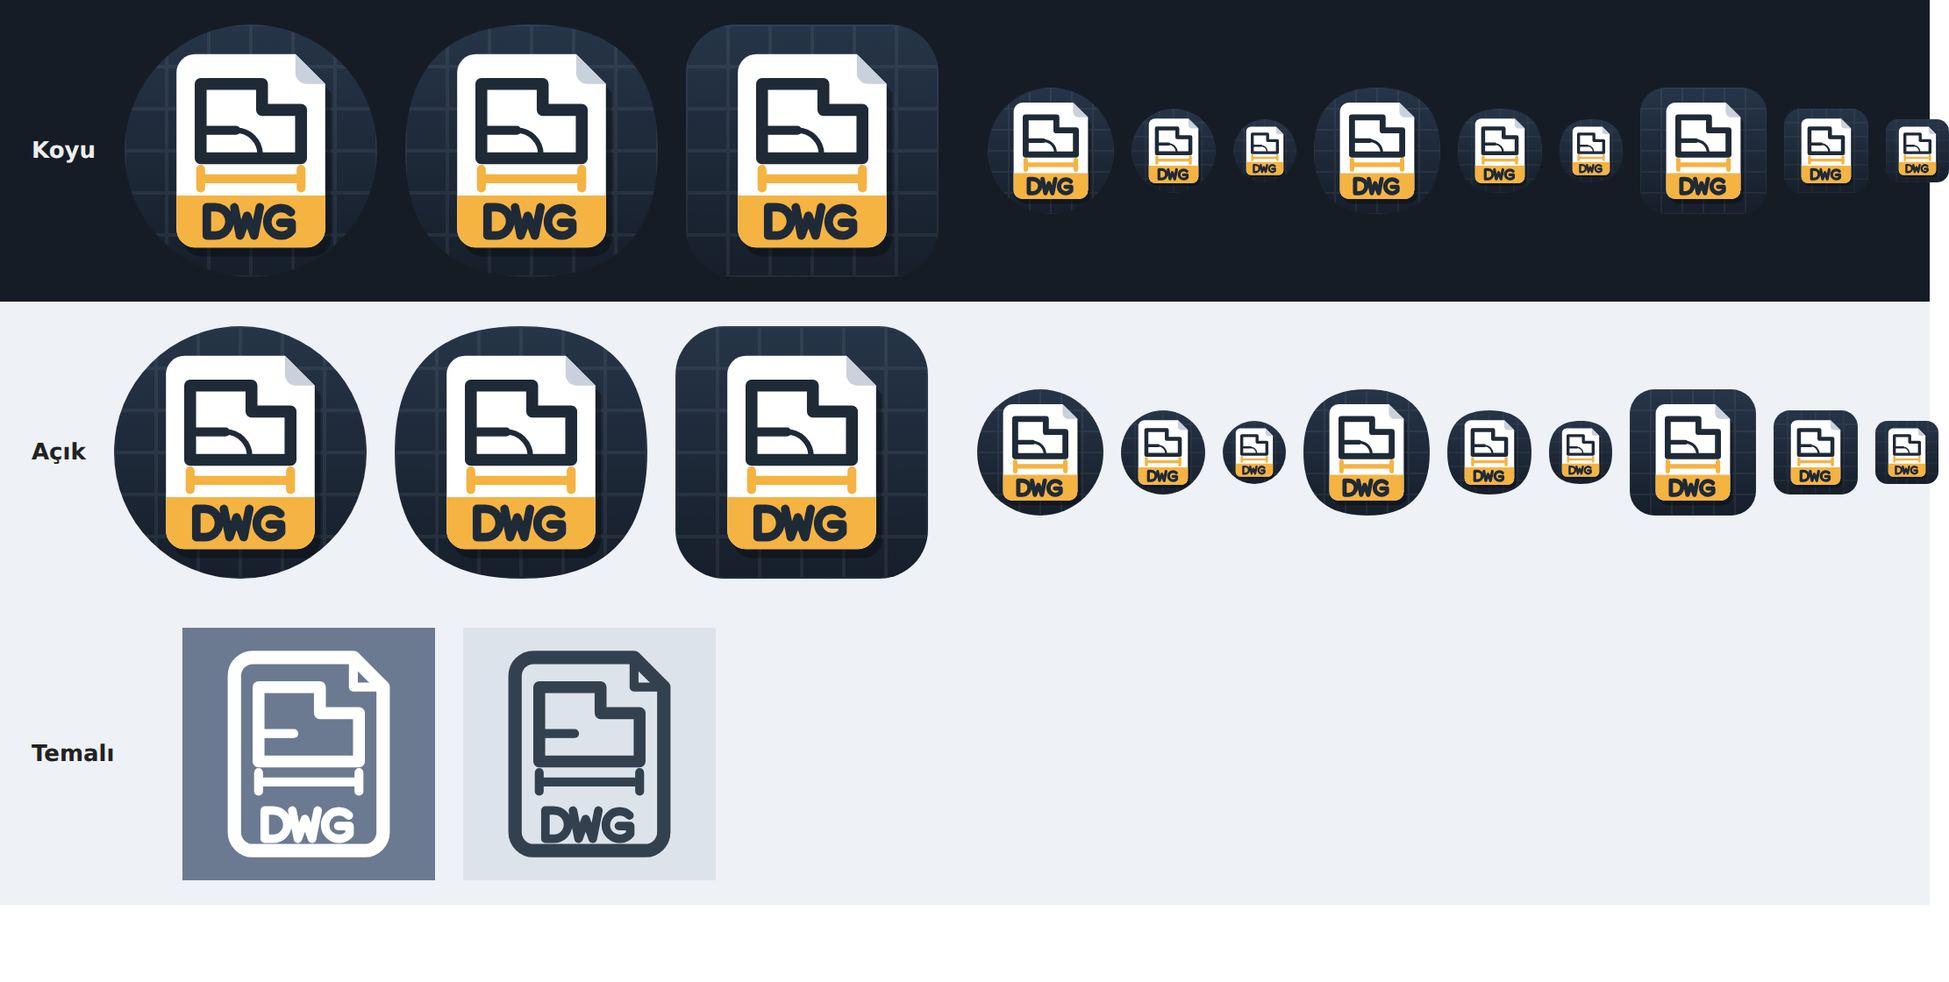
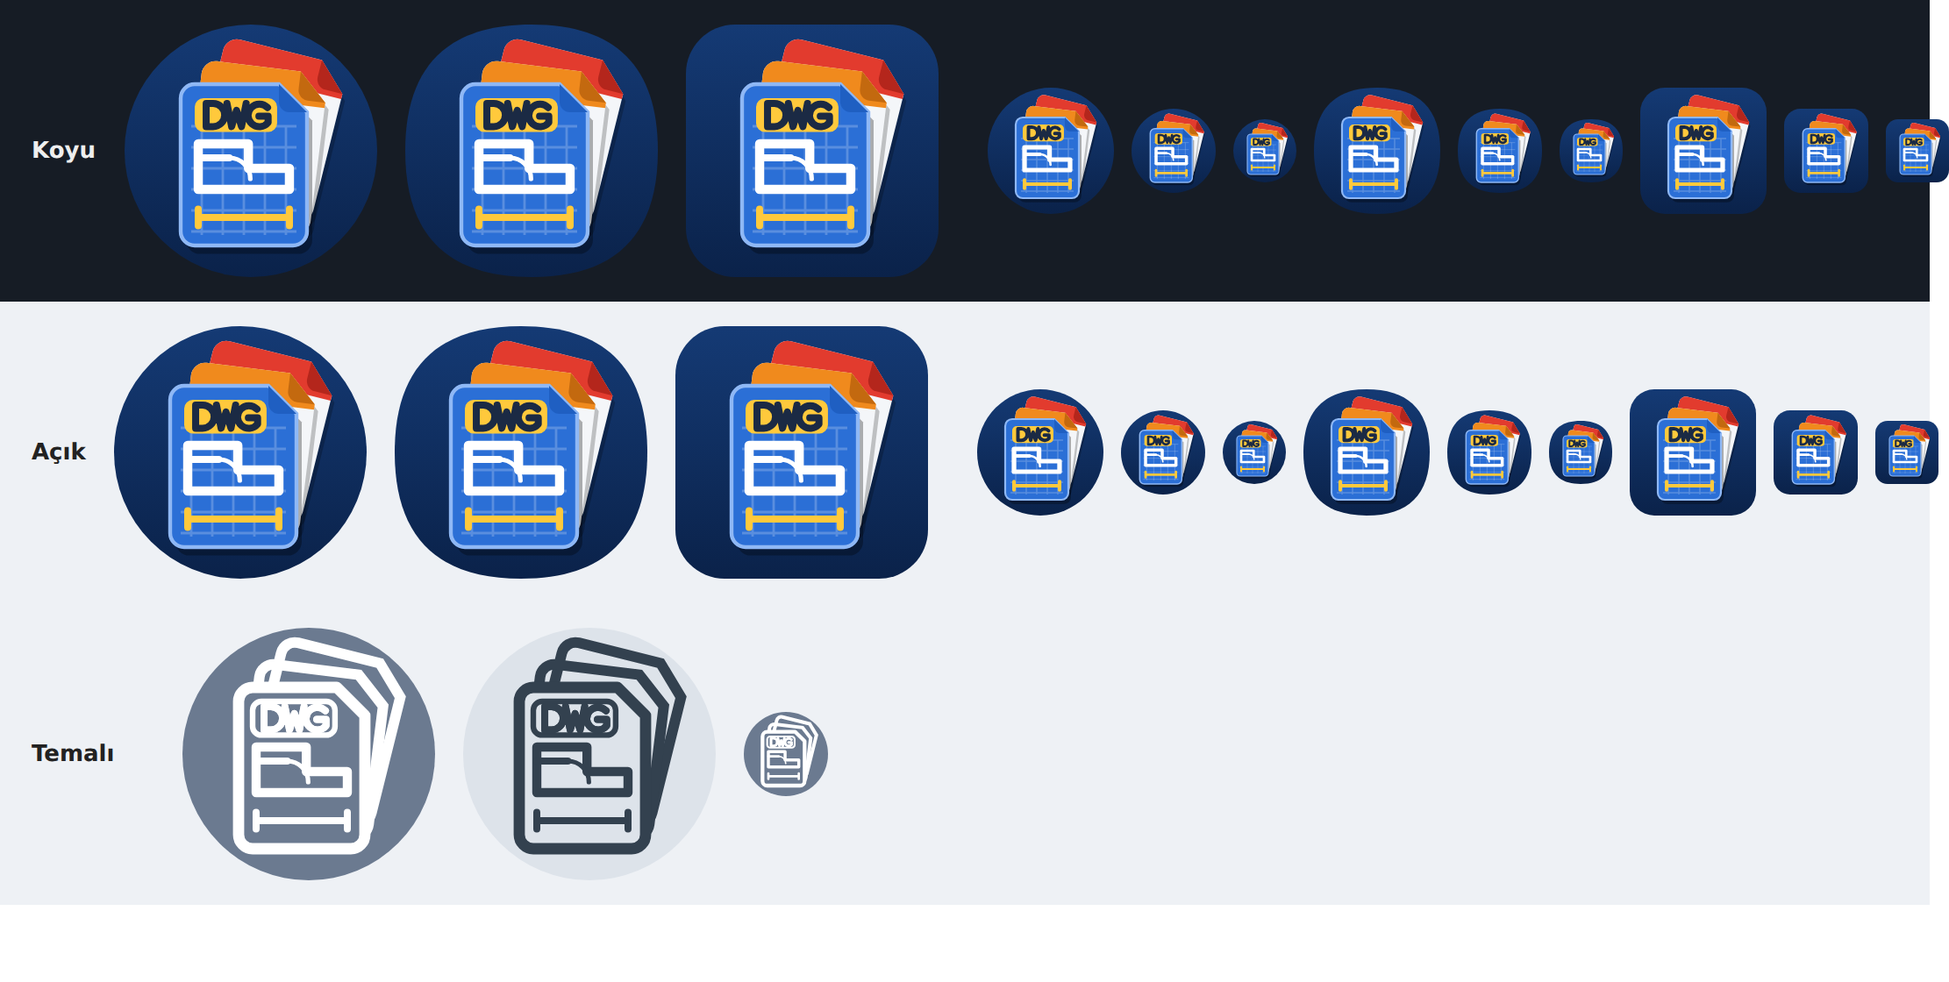
DWG Görüntüleyici v7.5: simge "yelpaze belge yığını" olarak yeniden tasarlandı (DWG paftası önde, PDF ve arşiv yaprakları arkada)
- ic_launcher_background.xml: koyu mavi dikey gradyan.
- ic_launcher_foreground.xml: önde mavi çizim paftası (ızgara, L duvarlı
  plan, iç duvar, kapı yayı, amber ölçü çizgisi, amber "DWG" etiketi);
  arkada merkez etrafında 7° ve 14° döndürülmüş, sağ üste kaydırılmış
  iki beyaz yaprak (kırmızı bant PDF, turuncu bant arşiv). Bütün
  köşeler 66 dp güvenli dairenin içinde (en uzak 32,7 dp).
- ic_launcher_monochrome.xml: temalı simge konturu; arka yaprak
  konturları clip-path deliğiyle yalnız ön paftanın dışında.
- release/icon_512.png ve icon_preview.png yenilendi; ana ekran marka
  işareti (<symbol id="i-appmark">) aynı tasarım.
- README, build.gradle, version.json: 7.5 / versionCode 28.

Claude-Session: https://claude.ai/code/session_01H5Q3W1HK45T3eykuqZLJpP

Changed region(s): [[0.0311, 0.3125, 1.0, 0.5938], [0.0621, 0.0, 1.0, 0.2812], [0.0932, 0.625, 0.4347, 0.9062]]

diff --git a/DwgViewer/app/src/main/assets/viewer/index.html b/DwgViewer/app/src/main/assets/viewer/index.html
@@ -115,7 +115,7 @@
     <symbol id="i-folder-add" viewBox="0 0 24 24"><path d="M2 4h7.5l2 2H22v4H2z"/><path fill-rule="evenodd" d="M2 11h20v9H2zm9 1.6v2.2H8.8v2h2.2V19h2v-2.2h2.2v-2H13v-2.2z"/></symbol>
     <symbol id="i-sdcard" viewBox="0 0 24 24"><path fill-rule="evenodd" d="M8.5 2H20v20H4V6.5zM7 4.5h1.6v4H7zm3.2 0h1.6v4h-1.6zm3.2 0H15v4h-1.6zm3.2 0h1.6v4h-1.6zM7 13v6h10v-6z"/></symbol>
     <symbol id="i-light" viewBox="0 0 24 24"><path fill-rule="evenodd" d="M12 2a7 7 0 0 0-4.5 12.4c.9.8 1.5 1.7 1.5 2.6h6c0-.9.6-1.8 1.5-2.6A7 7 0 0 0 12 2zm-1 4a4 4 0 0 0-3 3.3h1.8A2.3 2.3 0 0 1 11 7.8z"/><path d="M9 18.2h6v1.8H9zM10 21h4v1h-4z"/></symbol>
-    <symbol id="i-appmark" viewBox="18 18 72 72"><defs><linearGradient id="appmark-bg" x1="0" y1="0" x2="0" y2="1"><stop offset="0" stop-color="#2A3A4F"/><stop offset="1" stop-color="#121923"/></linearGradient><clipPath id="appmark-clip"><rect x="18" y="18" width="72" height="72" rx="16"/></clipPath></defs><g clip-path="url(#appmark-clip)"><rect width="108" height="108" fill="url(#appmark-bg)"/><path d="M18,0 V108 M0,18 H108 M30,0 V108 M0,30 H108 M42,0 V108 M0,42 H108 M54,0 V108 M0,54 H108 M66,0 V108 M0,66 H108 M78,0 V108 M0,78 H108 M90,0 V108 M0,90 H108" stroke="#FFFFFF" stroke-opacity=".06" stroke-width="1"/><g transform="translate(54,54) scale(1.06) translate(-54,-54)"><path d="M39,28 H66 L74,36 V75 a5,5 0 0 1 -5,5 H39 a5,5 0 0 1 -5,-5 V33 a5,5 0 0 1 5,-5 Z" fill="#000000" opacity="0.3" transform="translate(1.6,2.4)"/><path d="M39,28 H66 L74,36 V75 a5,5 0 0 1 -5,5 H39 a5,5 0 0 1 -5,-5 V33 a5,5 0 0 1 5,-5 Z" fill="#FFFFFF"/><path d="M66,28 V33 a3,3 0 0 0 3,3 H74 Z" fill="#C9D1DC"/><path d="M40.5,36 H57 V43 H67.5 V56 H40.5 Z" fill="none" stroke="#1F2A37" stroke-width="3.2" stroke-linejoin="round"/><path d="M40.5,48.5 H50" fill="none" stroke="#1F2A37" stroke-width="2.4" stroke-linecap="round"/><path d="M50,48.5 A6.5,6.5 0 0 1 56.5,55" fill="none" stroke="#1F2A37" stroke-width="1.5" stroke-linecap="round"/><path d="M40.5,61.5 H67.5 M40.5,59 V64 M67.5,59 V64" fill="none" stroke="#F5B342" stroke-width="2.4" stroke-linecap="round"/><path d="M34,66 H74 V75 a5,5 0 0 1 -5,5 H39 a5,5 0 0 1 -5,-5 Z" fill="#F5B342"/><path d="M42.16,69.2 L42.16,76.8 M42.16,69.2 L44.44,69.2 A3.8,3.8 0 0 1 44.44,76.8 L42.16,76.8 M49.57,69.2 L51.09,76.8 L52.99,71.48 L54.89,76.8 L56.41,69.2 M64.77,70.53 A3.7,3.7 0 1 0 64.96,75.47 L64.96,73.38 L61.92,73.38" fill="none" stroke="#1F2A37" stroke-width="2.3" stroke-linecap="round" stroke-linejoin="round"/></g></g></symbol>
+    <symbol id="i-appmark" viewBox="18 18 72 72"><defs><linearGradient id="appmark-bg" x1="0" y1="0" x2="0" y2="1"><stop offset="0" stop-color="#17407F"/><stop offset="1" stop-color="#081C3F"/></linearGradient><clipPath id="appmark-clip"><rect x="18" y="18" width="72" height="72" rx="16"/></clipPath></defs><g clip-path="url(#appmark-clip)"><rect width="108" height="108" fill="url(#appmark-bg)"/><g transform="translate(7,-10) rotate(14 52 58)"><path d="M38,35 H62 L70,43 V77 a4,4 0 0 1 -4,4 H38 a4,4 0 0 1 -4,-4 V39 a4,4 0 0 1 4,-4 Z" fill="#000000" opacity="0.22" transform="translate(1.2,1.8)"/><path d="M38,35 H62 L70,43 V77 a4,4 0 0 1 -4,4 H38 a4,4 0 0 1 -4,-4 V39 a4,4 0 0 1 4,-4 Z" fill="#F4F6F9"/><path d="M34,44.5 V39 a4,4 0 0 1 4,-4 H62 L70,43 V44.5 Z" fill="#E23B2E"/><path d="M62,35 V40 a3,3 0 0 0 3,3 H70 Z" fill="#B4261C"/></g><g transform="translate(3.5,-5) rotate(7 52 58)"><path d="M38,35 H62 L70,43 V77 a4,4 0 0 1 -4,4 H38 a4,4 0 0 1 -4,-4 V39 a4,4 0 0 1 4,-4 Z" fill="#000000" opacity="0.22" transform="translate(1.2,1.8)"/><path d="M38,35 H62 L70,43 V77 a4,4 0 0 1 -4,4 H38 a4,4 0 0 1 -4,-4 V39 a4,4 0 0 1 4,-4 Z" fill="#F4F6F9"/><path d="M34,44.5 V39 a4,4 0 0 1 4,-4 H62 L70,43 V44.5 Z" fill="#F08A1D"/><path d="M62,35 V40 a3,3 0 0 0 3,3 H70 Z" fill="#C3690F"/></g><g transform="translate(0,0) rotate(0 52 58)"><path d="M38,35 H62 L70,43 V77 a4,4 0 0 1 -4,4 H38 a4,4 0 0 1 -4,-4 V39 a4,4 0 0 1 4,-4 Z" fill="#000000" opacity="0.3" transform="translate(1.5,2.4)"/><path d="M38,35 H62 L70,43 V77 a4,4 0 0 1 -4,4 H38 a4,4 0 0 1 -4,-4 V39 a4,4 0 0 1 4,-4 Z" fill="#2B6FD6" stroke="#8FB8F5" stroke-width="1.1"/><path d="M40,47 V78 M46,47 V78 M52,47 V78 M58,47 V78 M64,47 V78 M37,47 H67 M37,53 H67 M37,59 H67 M37,65 H67 M37,71 H67 M37,77 H67" fill="none" stroke="#FFFFFF" stroke-width="0.7" opacity="0.22"/><path d="M62,35 V40 a3,3 0 0 0 3,3 H70 Z" fill="#1F5FC2"/><path d="M39,52 H53.3 V59 H65 V65 H39 Z" fill="none" stroke="#FFFFFF" stroke-width="2.6" stroke-linejoin="round"/><path d="M39,56 H47.84" fill="none" stroke="#FFFFFF" stroke-width="2" stroke-linecap="round"/><path d="M47.84,56 A6,6 0 0 1 53.84,62" fill="none" stroke="#FFFFFF" stroke-width="1.3" stroke-linecap="round"/><path d="M39,73 H65 M39,70.6 V75.4 M65,70.6 V75.4" fill="none" stroke="#FFC93C" stroke-width="2" stroke-linecap="round"/><path d="M40.5,39 H58.98 a2.5,2.5 0 0 1 2.5,2.5 V46.1 a2.5,2.5 0 0 1 -2.5,2.5 H40.5 a2.5,2.5 0 0 1 -2.5,-2.5 V41.5 a2.5,2.5 0 0 1 2.5,-2.5 Z" fill="#FFC93C"/><path d="M41.26,40.5 L41.26,47.1 M41.26,40.5 L43.24,40.5 A3.3,3.3 0 0 1 43.24,47.1 L41.26,47.1 M47.2,40.5 L48.52,47.1 L49.92,42.48 L51.33,47.1 L52.65,40.5 M58.75,41.66 A3.22,3.22 0 1 0 58.92,45.95 L58.92,44.13 L56.28,44.13" fill="none" stroke="#1B2A44" stroke-width="2" stroke-linecap="round" stroke-linejoin="round"/></g></g></symbol>
   </defs>
 </svg>
 <div id="app">

diff --git a/DwgViewer/README.md b/DwgViewer/README.md
@@ -1,4 +1,4 @@
-# DWG Görüntüleyici (Android) — v7.4
+# DWG Görüntüleyici (Android) — v7.5
 
 AutoCAD **DWG** ve **DXF** çizimlerini telefonda açan, çevrimdışı çalışan
 Android uygulaması. Dosya cihazdan dışarı çıkmaz; çözümleme telefonun
@@ -32,7 +32,7 @@ verisi gönderilmez).
 
 | Alan | Özellik |
 |---|---|
-| **Yeni uygulama simgesi (v7.4)** | Uyarlanabilir simge baştan tasarlandı: lacivert dikey gradyan ve ince plan ızgarası üzerinde katlı köşeli beyaz çizim yaprağı; yaprakta L duvarlı plan, iç duvar ve kapı yayı, amber ölçü çizgisi ve amber **"DWG" alt bandı** (harfler yazı tipi gerektirmeyen çizgi tabanlı geometrik yol). İçerik 66 dp güvenli dairenin içinde kalır; yuvarlak, kare-yuvarlak ve yuvarlatılmış kare maskelerde kırpılmaz, 36 px'te de okunur. Katmanlar `drawable/ic_launcher_background.xml` (gradyan `aapt:attr`), `ic_launcher_foreground.xml`, `ic_launcher_monochrome.xml` (Android 13+ temalı simge, kontur). Ana ekrandaki marka rozeti de aynı işareti kullanır (`<symbol id="i-appmark">`). Play Store için `release/icon_512.png` (tam kare, saydamlık yok) ve maske önizlemesi `release/icon_preview.png`; üretici betik tek kaynaktan hem SVG hem VectorDrawable yazar |
+| **Yeni uygulama simgesi (v7.4 – v7.5)** | Uyarlanabilir simge "yelpaze belge yığını" olarak tasarlandı: koyu mavi gradyan üzerinde önde **mavi çizim paftası** (ince ızgara, L duvarlı plan, iç duvar, kapı yayı, amber ölçü çizgisi, amber **"DWG" etiketi**), arkada merkez etrafında 7° ve 14° döndürülüp sağ üste kaydırılmış iki beyaz yaprak — üst bantları **kırmızı (PDF)** ve **turuncu (arşiv)**: uygulamanın DWG dışında PDF, Word, Excel ve arşiv de açtığını anlatır. Bütün köşeler 66 dp güvenli dairenin içindedir (en uzak köşe 32,7 dp); yuvarlak, kare-yuvarlak ve yuvarlatılmış kare maskelerde kırpılmaz, 36 px'te okunur. Harfler yazı tipi gerektirmeyen çizgi tabanlı geometrik yollardır (D, W, G). Katmanlar `drawable/ic_launcher_background.xml` (gradyan, `aapt:attr`), `ic_launcher_foreground.xml` (döndürülmüş gruplar), `ic_launcher_monochrome.xml` (Android 13+ temalı simge; arka yaprakların konturu ön paftanın dışında kalacak şekilde `clip-path` deliğiyle çizilir). Ana ekrandaki marka rozeti aynı işareti kullanır (`<symbol id="i-appmark">`). Play Store için `release/icon_512.png` (tam kare, saydamlık yok), maske ve boyut önizlemesi `release/icon_preview.png`; üretici betik tek kaynaktan hem SVG hem VectorDrawable yazar |
 | **Siluet kabuğu: cihazdan bağımsız derinlik sırası (v7.3)** | Kavramsal stildeki siluet, yüzeylerin kameradan uzağa şişirilmiş koyu bir kabuğuyla çizilir. 6.1'deki düzeltme kabuğu yalnız `polygonOffset` ile yüzlerin arkasına itiyordu; bazı mobil GPU sürücülerinde (özellikle 16 bit derinlik tamponu ve paralel izdüşümün geniş derinlik aralığında) bu ofset yetersiz kalıp dik yüzler siyaha boyanıyordu. Kabuk artık gölgelendiricide **bakış doğrultusu boyunca** siluet kalınlığının 6 katı geriye alınır (paralelde ekran konumu değişmez, perspektifte kayma piksel altıdır); `polygonOffset` yalnız ek güvence olarak kalır. Paralel izdüşümün derinlik aralığı 20 × uzaklıktan **uzaklık + 2,5 yarıçap**a çekildi (5-6 kat daha ince derinlik basamağı). Sınama 5b sürücü ofsetini etkisiz kılarak (`gl.polygonOffset` boş işlev) paralel ve perspektifte dik yüzlerin Gooch tonunda kaldığını ve siluetin küp dışında göründüğünü doğrular  **Belge görünümü:** yakınlaştırılmış PDF'te yatay kaydırma (`touch-action: pan-y` kaldırıldı) ve belge kipinde `#viewport`'un dokunma kilidi açıldı; **Word sayfa görünümü** (yazdırma önizleme): belgedeki sayfa boyutu ve kenar boşluklarıyla beyaz sayfalar, blok düzeyinde sayfalama, sayfa numarası, zorunlu sayfa sonu, genişliğe sığdırma, iki parmakla yakınlaştırma; "Akış" kipi eski düzendir |
 | **Ana ekran, belge kipi ve WebDAV (v7.2)** | **Belge kipi** (`body.docmode`; PDF / Word / Excel / ZIP-RAR / resim / metin açıkken): çizime ait hiçbir arayüz görünmez — şerit (`#toolbar`), durum çubuğu, sayfa düzeni sekmeleri, yan yuva ve üst çubuktaki Ara / Sığdır / Katmanlar / Ölçü / Ekran düğmeleri gizlenir (`app.css`), yalnız **Aç** ve **Diğer** kalır; Diğer menüsünde yalnız genel eylemler (Google Drive, Sunucudan indir, QR okut, Ayarlar, Hakkında, Pro, Ana ekran) görünür, çizim eylemleri gizlidir. Menü görünürlüğü tek yerde birleşir (`app.js refreshMenu`: yetki + belge kipi + belge varlığı; `edition.js applyEdition` de oraya gelir). Belge kipine girerken ölçü / profil kipi, notlar çubuğu, komut çubuğu, pencere yakınlaştırma ve bütün paneller kapanır; belge kapanınca çizim varsa şerit ve durum çubuğu geri gelir, çizim yoksa ana ekran açılır. Belge görünümünün kendi üst şeridi (geri · ad · eylemler · kapat) ve araç satırı durur. **Ana ekran** (`home.js`, `#home` + `#homeNav`; `#empty` karşılama kartının yerini alır): çizim ya da belge açık DEĞİLKEN `#main`'i kaplar, üst çubuk / şerit / durum çubuğu gizlenir (`body.homemode`), başlık ekranın içindedir; alt gezinme çubuğu dört bölüm: **Ev** (uygulama adı, "Dosya aç" → Dosya Aç merkezi, Son dosyalar ızgarası — küçük resimli, en çok 8, "Tümü…" → merkezin Son sekmesi —, hızlı işlemler QR · Sunucu · Google Drive, ücretsizde Pro tanıtım satırı; `#btnOpen2` / `#fileInput` / `#recentList` / `#recentWrap` / `#proLine` / `#btnServer` / `#btnQr` / `#btnDrive` kimlikleri korunur), **Dosya** (Yerel | Bulut sekmeleri — Yerel: `open.js`'in Cihaz gezgini `Open.mount(hostEl, 'device')` ile buraya gömülür: kök ekleme, kırıntı, liste, arama aynı; sistem seçici ve Çevrimdışı kopyalar düğmeleri; `#openPanel` alt sayfası çizim açıkken kullanılmaya devam eder, `Open.unmount()` ana ekran gizlenince — Bulut: hizmet kartları simge + ad + sağda durum düğmesi: Google Drive "Oturum aç" → `Drive.signIn`, oturum açıksa e-posta + Aç + Çıkış; WebDAV / Nextcloud "Oturum aç" → hesap formu, kayıtlı hesaplar Aç + Çıkış; Sunucu dizini → paftalar.json kutusu), **Bulut** (oturum açılmış hizmetlerin gezgini: Google Drive çipi Drive panelini açar, WebDAV hesapları için kırıntılı gezgin — klasörler, dosyalar, tür simgeleri, dosyaya dokununca indir → `Docs.openRegistered`; hiç hesap yoksa açıklama + Dosya › Bulut bağlantısı), **Araçlar** (4 sütun ızgara, renkli yuvarlatılmış simge kutuları `.tool-c1…c8` + ad; tanımlar tek listede `home.js TOOLS {id, icon, i18n, pro, needsDoc, run}`: PDF çıktısı, PNG kaydet, DXF kaydet, Değişiklikleri kaydet, Karşılaştır, Profil, Notlar, Ölçü, Katmanlar, Arama, GPS, Harita altlığı, Görünümler, QR okut, Sunucudan indir, Google Drive, Ayarlar, Hakkında, Pro; ücretsizde Pro araçlar turuncu **PRO** rozeti taşır ve Pro panelini açar, çizim gerektiren araçlar belge yokken "Önce bir DWG dosyası açın" der, çizim bellekteyken ana ekranı kapatıp aracı çizimde çalıştırır). Seçili bölüm `store('home:tab')` ile hatırlanır; Diğer › **Ana ekran** (`data-act="home"`) açık belgeyi kapatıp ana ekrana döner, çizim bellekte kalır (Son'dan yeniden yüklenir); geri tuşu ana ekranda Ev değilse Ev'e döner, Ev'deyse uygulama kapanır. Tema / eldiven / güneş kipleriyle uyumlu, 412 px ve yatay düzen. **WebDAV / Nextcloud istemcisi** (`cloud.js` + `MainActivity.Bridge`; `gDrive → onDrive` kalıbının aynısı): `wdAccounts()` → `[{id,name,url,user}]` (parola dönmez), `wdSave(json {id?,name,url,user,pass})`, `wdRemove(id)`, `wd(reqId, op, argsJson)` → `dwgApp.onWebDav(reqId, ok, json)`; `op`: `list {id,path}` → `{items:[{name,path,dir,size,time,mime}]}` (PROPFIND Depth 1), `download {id,path,name}` → belge önbelleği bilgisi `{id,name,size,ext}`, `test {url,user,pass}` → `{ok:true}` (PROPFIND Depth 0; 401 → "Kullanıcı adı ya da parola hatalı", 404/405 → "WebDAV adresi bulunamadı"). `wdSave` hesap id'sini döner, hatada `""` (ileti Java'dan Toast ile gelir; JS formu açık bırakır, "kaydedilemedi" der). PROPFIND ham soketle yazılır (Android'in HttpURLConnection'ı PROPFIND'i kabul etmez): gövde sınırı 16 MB Content-Length ve chunked gövdede birlikte uygulanır; sistem HTTP vekili (`ProxySelector`) http'de mutlak URL, https'de CONNECT tüneliyle izlenir. Sunucu href'leri hesap kökünden farklı bir yol önekiyle dönerse (ters vekil) önek istenen klasörün kendi girdisinden çıkarılır (`WebDavXml.serverPrefix`), eşlenemeyen girdiler listelenmez. Parola Android tarafında şifreli saklanır. Tarayıcıda köprü yokken WebDAV kartı "Android uygulamasında" açıklaması verir. **Dropbox, OneDrive ve Box listelenmez**: her biri geliştirici uygulaması kaydı ve OAuth istemci kimliği gerektirir; WebDAV ile Nextcloud / ownCloud / Synology / Apache-Nginx DAV paylaşımları kapsanır. Sınama: `tools/test_home.mjs` |
 | **Tek uygulama, Pro uygulama içi satın alma (v7.1)** | 7.0'daki iki Gradle çeşidi kaldırıldı: tek uygulama (`com.mahmuttari.dwgviewer`, adı "DWG Görüntüleyici"), tek `assembleRelease`, tek `release/DwgGoruntuleyici.apk` ve `release/version.json` (`version-free.json` ve `DwgGoruntuleyici-Free.apk` silindi; `BuildConfig.EDITION` ve `PRO_URL` kalktı, AdMob `Ads.java` `src/main`e taşındı). Ücretsiz / Pro ayrımı derleme zamanında değil **çalışma zamanında** belirlenir: (1) **Google Play Faturalandırma** (`com.android.billingclient:billing:7.1.1`) tek seferlik, tüketilmeyen ürün — ürün kimliği `BuildConfig.PRO_SKU` (`gradle.properties` `PRO_SKU`, varsayılan `dwg_pro`); her açılışta `queryPurchasesAsync(INAPP)` ile yeniden doğrulanır (PURCHASED + acknowledge), Play "yok" derse Play kaynaklı yetki silinir; (2) **çevrimdışı lisans kodu**: `DWGPRO-<base64url payload>.<base64url imza>`, payload UTF-8 JSON `{"p":"dwg_pro","n":"<lisans sahibi>","e":<bitiş epoch saniye ya da 0>}`, RSA-2048 **SHA256withRSA** imzası `BuildConfig.LICENSE_PUBLIC_KEY` (`gradle.properties` `LICENSE_PUBLIC_KEY`, Base64 X.509 SubjectPublicKeyInfo; boşsa lisans kodu özelliği kapalı) ile doğrulanır, `p == PRO_SKU` ve `e == 0` ya da `e > şimdi` aranır; lisans kaynaklı yetki bitiş tarihine kadar kalır. Yetki `SharedPreferences "pro"` altında `{source:"play"|"license", name?, exp?}`. Köprü (`MainActivity.Bridge`): `edition()` → `"pro"` \| `"free"`, `proInfo()` → `{edition, source, name, exp, price, billingReady, licenseEnabled}` (fiyat Play'in `formattedPrice` alanı), `buyPro()`, `restorePro()`, `activateLicense(code)` → true/false, `showAd(reason)` (Pro'da hemen `onAd(reason,false)`), `adsAvailable()`; her yetki değişiminde Java `dwgApp.onEdition(ed, reason)` çağırır (reason: `purchased` / `restored` / `license` / `cancelled` / `pending` / `error:<mesaj>` / `revoked` / `none`; açılıştaki Play doğrulaması da değişiklik varsa). Arayüz (`edition.js`): `edition()` her çağrıda köprüyü okur (köprü > önbellek > `window.__edition` > pro), önbellek `onEdition` ile yenilenir; `onEdition` → `applyEdition()`, yetki değiştiyse `editor.rebuild()` (sekmeler ve karolar yeniden çizilir, geçerli sekme korunur, çalışan araç işaretli kalır), reklam zamanlayıcısı durur / başlar, uyarı ("Pro etkinleştirildi", "Satın alma onay bekliyor", "Pro yetkisi kaldırıldı", hata iletisi; `cancelled` sessiz). "Pro sürüme geç" artık bağlantı açmaz: **Pro paneli** (`#proPanel` alt sayfası, `dwgApp.openProPanel()`) — özellik listesi (çizim ve düzenleme, 3B düzenleme, kot/eğim profili, notlar, DXF kaydetme, ölçekli PDF, karşılaştırma, geri al/yinele, Drive'a yükleme, reklamsız), fiyat (`proInfo.price`, boşsa "Fiyat Play Store'dan alınır"), **Satın al** (`billingReady` değilse pasif + "Google Play kullanılamıyor"), **Satın alımı geri yükle**, **Lisans kodu gir** (`licenseEnabled` ise; `askText` → `activateLicense`, başarısızsa "Lisans kodu geçersiz ya da süresi dolmuş"); Pro'da "Pro etkin — kaynak: Google Play / Lisans — ad (bitiş)"; tarayıcıda (Android yok) yalnız açıklama ve "Bu özellik Android uygulamasında satın alınır". Karşılama kartındaki Pro düğmesi, Diğer menüsündeki "Pro sürüme geç" ve `gate()` kutusunun onay düğmesi hep bu paneli açar; geri tuşu paneli kapatır. Ücretsizde gizleme mantığı (PRO_ONLY, sekmeler, karolar, menü, Drive'a yükleme) ve reklam düzeni (açılışta + 5 dakikada bir, yalnız Pro değilken) 7.0'daki gibidir. Lisans aracı **`tools/license_gen.mjs`** (Node `crypto`, bağımlılık yok): `keygen --out <özel.pem>` RSA-2048 anahtar çifti üretir (özel anahtar PEM'i verilen dosyaya, açık anahtar Base64 SPKI olarak stdout'a — `gradle.properties` `LICENSE_PUBLIC_KEY=` satırına yapıştırılır), `sign --key <özel.pem> --name "<ad>" [--expires YYYY-MM-DD] [--sku dwg_pro]` lisans kodu basar, `verify --pub <base64> <kod>` doğrular. Özel anahtar depoya girmez (`DwgViewer/.gitignore`: `keystore/license_private.pem`) |
@@ -273,6 +273,7 @@ RAR (junrar), gerçek Google Drive ve Android PdfRenderer yalnız cihazda
 | 7.2 | 25 | 2026-09-12 | Belge kipi (PDF / Word / Excel açıkken çizim arayüzü gizli, menüde yalnız genel eylemler), ana ekran (Ev · Dosya · Bulut · Araçlar alt gezinmesi, gömülü Cihaz gezgini, araç ızgarası), WebDAV / Nextcloud istemcisi (`cloud.js`, `wd*` köprüsü, şifreli parola) |
 | 7.3 | 26 | 2026-09-13 | Siluet kabuğu bakış doğrultusunda geriye alınır (polygonOffset'ten bağımsız), paralel izdüşümde dar derinlik aralığı; kavramsal stilde dik yüzlerin cihazda siyah görünmesi giderildi. Belge görünümü: Word için sayfa görünümü (yazdırma önizleme — belgedeki sayfa boyutu ve kenar boşluklarıyla sayfalanmış, sayfa numaralı, ölçek transform ile; Sayfa / Akış düğmesi, tercih hatırlanır) ve iki parmakla yakınlaştırma; PDF ve Word'de yakınlaştıktan sonra belge içinde kaydırma engellenmez (tek parmak kaydırma serbest, dokunma eylemi belge kipinde açık) |
 | 7.4 | 27 | 2026-09-13 | Yeni uygulama simgesi: çizim yaprağı + plan + DWG bandı (uyarlanabilir, temalı katman), Play Store 512 px simgesi, ana ekran marka işareti |
+| 7.5 | 28 | 2026-09-13 | Simge "yelpaze belge yığını" olarak yeniden tasarlandı: mavi DWG paftası önde, kırmızı (PDF) ve turuncu (arşiv) bantlı yapraklar arkada; temalı katman kırpma delikli kontur |
 
 ## QR kod biçimi
 
